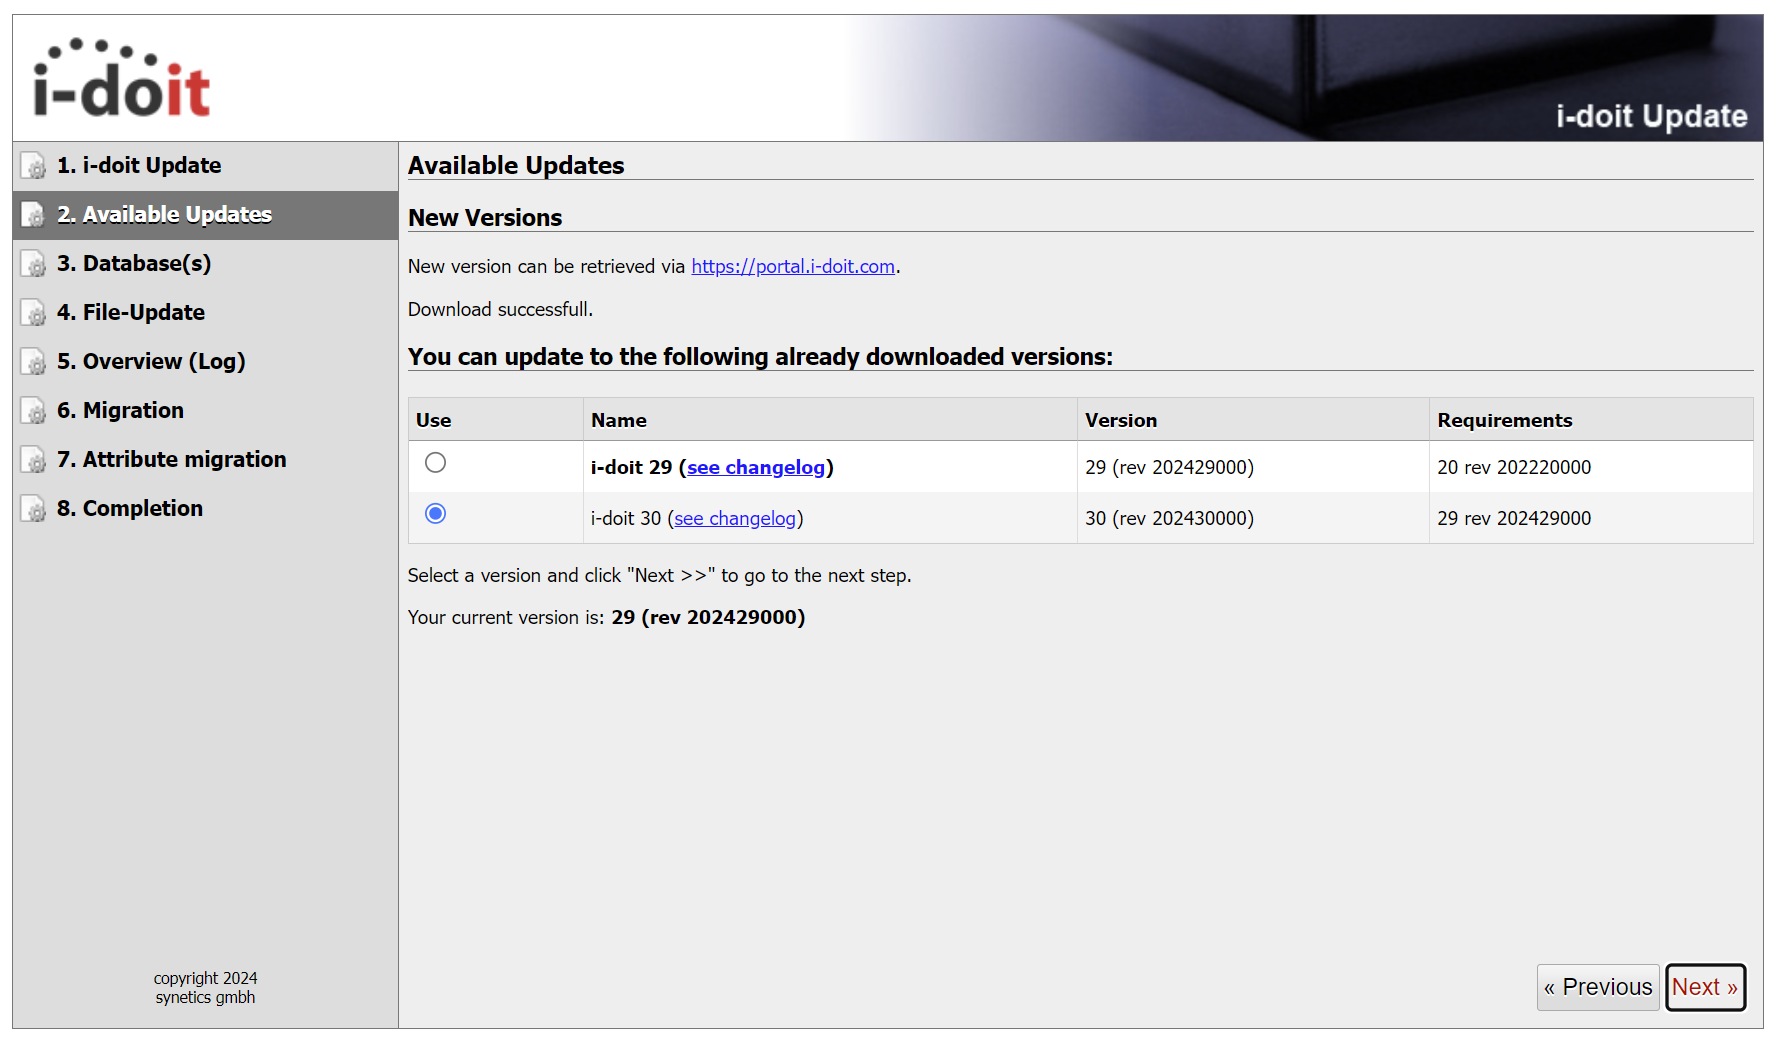
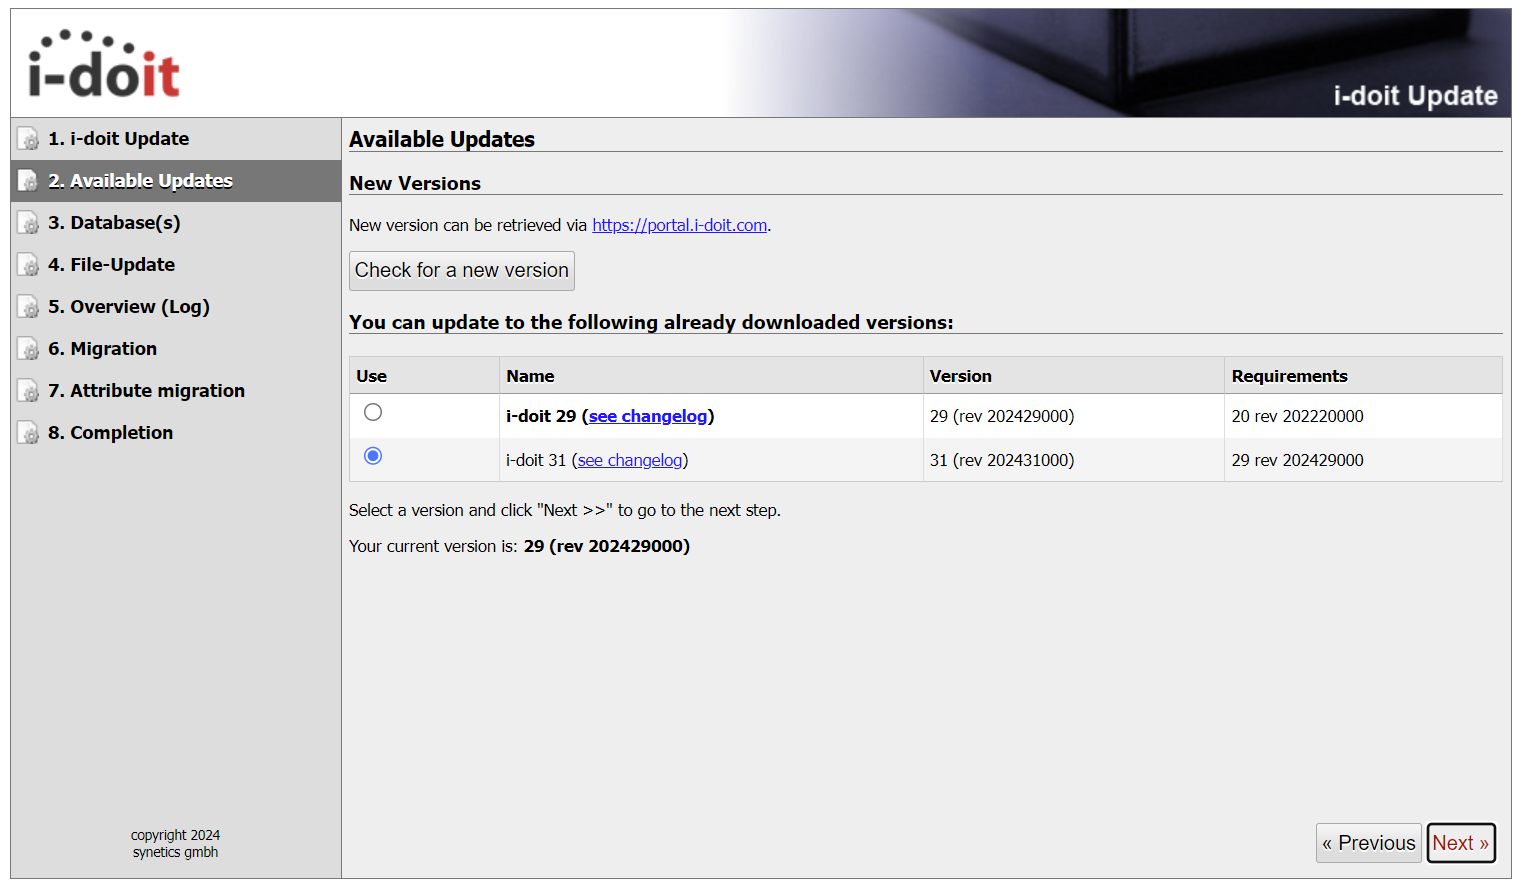
replaced version 30 with 31

diff --git a/docs/en/upgrades-and-migrations/update-guide-from-1.7.4-to-31.md b/docs/en/upgrades-and-migrations/update-guide-from-1.7.4-to-31.md
@@ -842,23 +842,19 @@ Restart MariaDB afterwards
 sudo systemctl start mysql.service
 ```
 
-## Updating 29 to 30
+## Updating 29 to 31
 
-First open the Web Interface Updater.<br>
-By clicking **Check for a new version** you can check whether a newer package is available. For this purpose, you require an internet connection.<br>
-If a new version is available the update package can be downloaded and extracted with a click on **Download**
-
-If you're not connected to the internet, you can prepare the update via CLI by open the i-doit Folder at `/var/www/html/` and unzip the idoit update package with
+First, you need to prepare the update via CLI by open the i-doit Folder at `/var/www/html/` and unzip the idoit update package with
 
 ```sh
-sudo -u www-data unzip idoit-30-update.zip
+sudo -u www-data unzip idoit-31-update.zip
 ```
 
 If you are asked, overwrite everything by typing **A**.
 
-In the Web Interface Updater check if the Update to Version 30 is displayed and selected, then do the update.
+In the Web Interface Updater check if the Update to Version 31 is displayed and selected, then do the update.
 
-[![Updating 29 to 30](../assets/images/en/upgrades-and-migrations/update-from-1.7.4-to-1.19/14-u18-119.png)](../assets/images/en/upgrades-and-migrations/update-from-1.7.4-to-1.19/14-u18-119.png)
+[![Updating 29 to 31](../assets/images/en/upgrades-and-migrations/update-from-1.7.4-to-1.19/14-u18-119.png)](../assets/images/en/upgrades-and-migrations/update-from-1.7.4-to-1.19/14-u18-119.png)
 
 !!! success "**Check the update Logs**"
     Please take the time to Scroll down the logs and check if a error occurred
